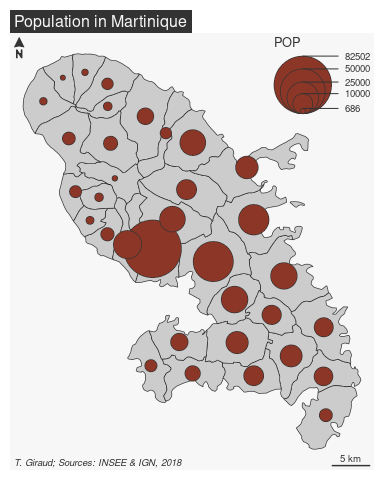
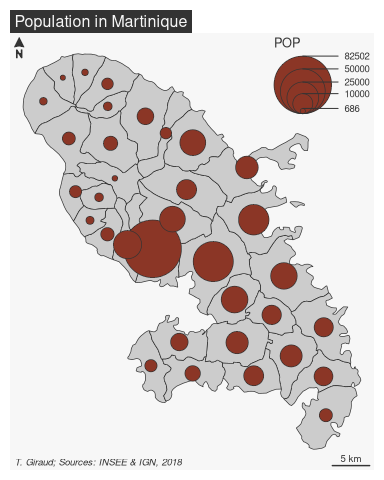
docs: replace pkgdown by altdoc for website

diff --git a/altdoc/docsify.html b/altdoc/docsify.html
@@ -1,0 +1,62 @@
+<!-- index.html -->
+<!DOCTYPE html>
+<html>
+<head>
+  <meta http-equiv="X-UA-Compatible" content="IE=edge,chrome=1">
+  <meta name="viewport" content="width=device-width,initial-scale=1">
+  <meta charset="UTF-8">
+  <!-- Theme: Simple (light + dark) -->
+  <link rel="stylesheet" href="https://cdn.jsdelivr.net/npm/docsify-themeable@0/dist/css/theme-simple.css">
+
+  <style>
+    :root {
+      --heading-font-weight                : var(--strong-font-weight);
+      --heading-h1-font-weight             : 400;
+      --heading-h2-font-weight             : 400;
+      --heading-h2-border-color            : var(--mono-tint2);
+      --heading-h2-border-width            : 0 0 1px 0;
+      --heading-h2-margin                  : 0.5rem 0 0.5rem;
+      --heading-h2-padding                 : 0 0 .5rem 0;
+      --base-line-height: 1.7;
+    }
+  </style>
+
+
+
+</head>
+<body>
+  <div id="app"></div>
+  <script>
+    window.$docsify = {
+      name: '$ALTDOC_PACKAGE_NAME',
+      repo: '$ALTDOC_PACKAGE_URL_GITHUB',
+      loadSidebar: true,
+      subMaxLevel: 1,
+      search: {
+        placeholder: 'Search',
+        depth: 3,
+      },
+      auto2top: true,
+      copyCode: {
+        buttonText : 'Copy',
+        errorText  : 'Error',
+        successText: 'Copied'
+      },
+      plugins: [
+        function(hook) {
+          var footer = ["<a href='$ALTDOC_PACKAGE_URL'> <code> $ALTDOC_PACKAGE_NAME </code> v. $ALTDOC_PACKAGE_VERSION </a> | Documentation made with <a href='https://altdoc.etiennebacher.com/'> <code> altdoc </code> v. $ALTDOC_VERSION</a>"].join('');
+
+          hook.afterEach(function(html) {
+            return html + footer;
+          });
+        }
+      ]
+    }
+  </script>
+  <script src="//cdn.jsdelivr.net/npm/docsify@4"></script>
+  <script src="https://cdn.jsdelivr.net/npm/docsify-themeable@0/dist/js/docsify-themeable.min.js"></script>
+  <script src="//cdn.jsdelivr.net/npm/docsify-copy-code"></script>
+  <script src="//cdn.jsdelivr.net/npm/prismjs@1.24.1/components/prism-r.js"></script>
+  <script src="//unpkg.com/docsify/lib/plugins/search.min.js"></script>
+</body>
+</html>

diff --git a/altdoc/docsify.md b/altdoc/docsify.md
@@ -1,0 +1,41 @@
+* [Home](/)
+* Vignettes 
+  - [Cheat sheet](vignettes/cheat_sheet)
+  - [Get started with mapsf](vignettes/mapsf)
+  - [How to export maps](vignettes/how_to_export_maps)
+  - [How to use themes](vignettes/how_to_use_themes)
+  - [How to create faceted maps](vignettes/how_to_create_faceted_maps)
+  - [How to create inset maps](vignettes/how_to_create_inset_maps)
+  - [How to use a custom font](vignettes/how_to_use_a_custom_font_family)
+* Functions 
+  - Symbology
+    - [mf_map()](man/mf_map)
+    - [mf_label()](man/mf_label)
+    - [mf_raster()](man/mf_raster)
+    - [mf_graticule()](man/mf_graticule)
+  - Map layout
+    - [mf_theme()](man/mf_theme)
+    - [mf_shadow()](man/mf_shadow)
+    - [mf_background()](man/mf_background)
+    - [mf_legend()](man/mf_legend)
+    - [mf_annotation()](man/mf_annotation)
+    - [mf_arrow()](man/mf_arrow)
+    - [mf_credits()](man/mf_credits)
+    - [mf_layout()](man/mf_layout)
+    - [mf_title()](man/mf_title)
+    - [mf_scale()](man/mf_scale)
+    - [mf_inset_*()](man/mf_inset_on)
+    - [mf_worldmap()](man/mf_worldmap)
+  - Utility
+    - [mf_export()](man/mf_export)
+    - [mf_distr()](man/mf_distr)
+    - [mf_get_links()](man/mf_links)
+    - [mf_get_pal()](man/mf_get_pal)
+    - [mf_get_breaks()](man/mf_get_breaks)
+    - [mf_get_mtq()](man/mf_get_mtq)
+    - [mf_get_ratio()](man/mf_get_ratio)
+    - [mf_get_pencil()](man/mf_get_pencil)
+    - [mf_get_borders()](man/mf_get_borders)
+* [News]($ALTDOC_NEWS)
+* [Licence]($ALTDOC_LICENCE)
+* [Citation]($ALTDOC_CITATION)